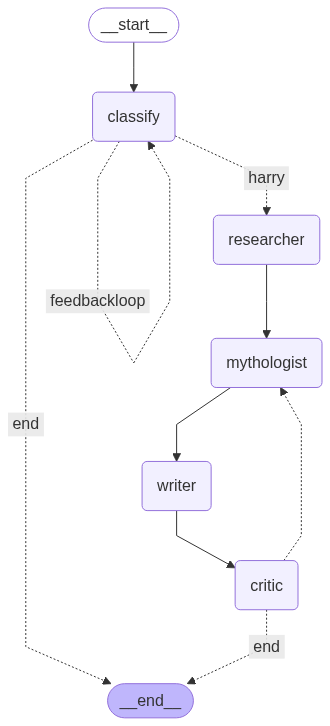
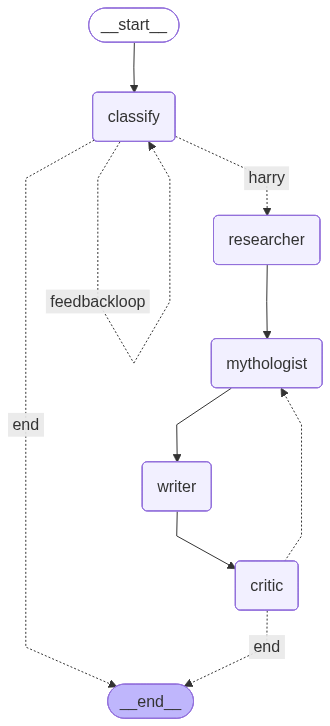
Packages and import updated

diff --git a/HarryAgent/HpAgent.py b/HarryAgent/HpAgent.py
@@ -1,12 +1,12 @@
 # langgraph_multiagent.py
-from langchain.agents import Tool
+from langchain_core.tools import Tool
 from langgraph.graph import StateGraph, END
 from typing import TypedDict, Optional, Dict
 from langgraph.prebuilt import create_react_agent
 from langchain_community.tools import DuckDuckGoSearchResults
 from langchain_core.messages import AIMessage  # import AIMessage
 from langchain_community.vectorstores import FAISS
-from langchain.embeddings import HuggingFaceEmbeddings
+from langchain_huggingface import HuggingFaceEmbeddings
 from transformers import AutoTokenizer, AutoModel
 from sentence_transformers import CrossEncoder
 from langchain_core.tools import tool
